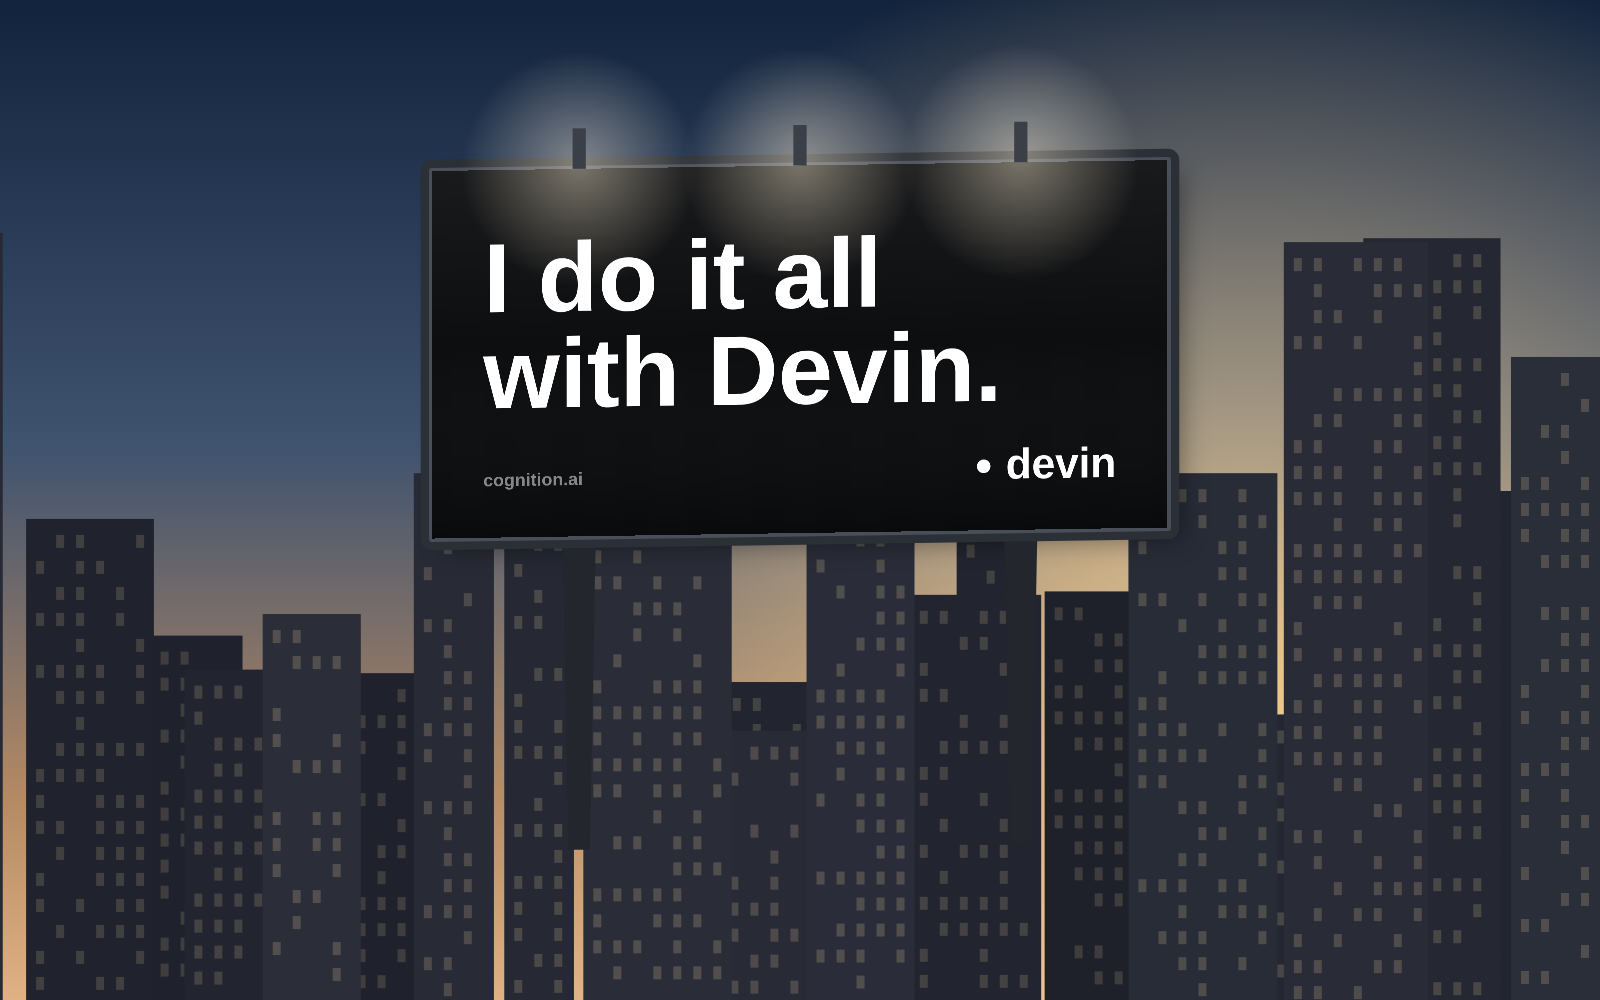
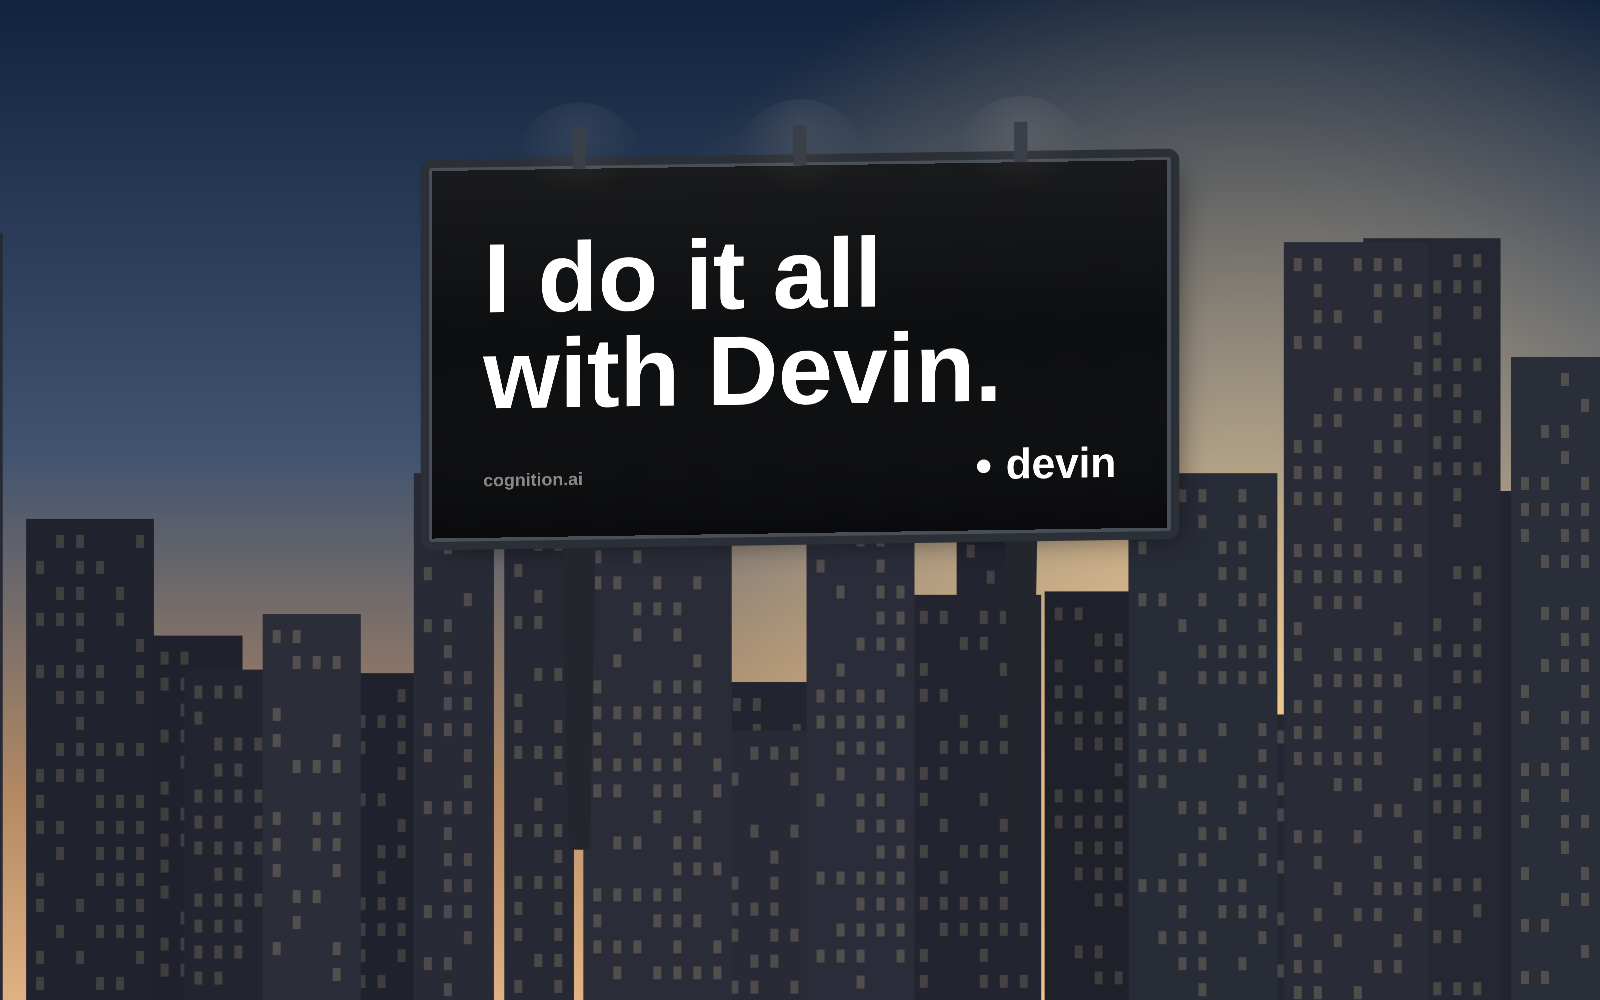
Refine billboard gantry lighting

Changed region(s): [[0.2812, 0.062, 0.7188, 0.279]]

diff --git a/app.js b/app.js
@@ -266,15 +266,15 @@ function drawLights(canvas, quad) {
   const height = Math.hypot(quad[3][0] - quad[0][0], quad[3][1] - quad[0][1]);
   const fixtureWidth = Math.max(8, width * 0.018);
   const fixtureLength = Math.max(22, height * 0.11);
-  const radius = width * 0.16;
+  const radius = width * 0.09;
 
   g.save();
   g.globalCompositeOperation = 'screen';
   for (const t of [0.2, 0.5, 0.8]) {
     const x = quad[0][0] + (quad[1][0] - quad[0][0]) * t;
     const y = quad[0][1] + (quad[1][1] - quad[0][1]) * t;
-    const glow = g.createRadialGradient(x, y - fixtureLength * 0.15, 3, x, y, radius);
-    glow.addColorStop(0, 'rgba(255,240,205,.42)');
+    const glow = g.createRadialGradient(x, y - fixtureLength * 0.95, 3, x, y - fixtureLength * 0.95, radius);
+    glow.addColorStop(0, 'rgba(255,240,205,.08)');
     glow.addColorStop(1, 'rgba(255,240,205,0)');
     g.fillStyle = glow;
     g.beginPath();
@@ -451,9 +451,9 @@ function setChip(i) {
   els.chips.forEach((c, n) => c.classList.toggle('active', n === i));
 }
 
-/* ---------- sample scene ---------- */
+/* ---------- sample city ---------- */
 
-function sampleScene() {
+function sampleCity() {
   const W = 1600, H = 1000;
   const c = document.createElement('canvas');
   c.width = W; c.height = H;
@@ -585,7 +585,7 @@ els.file.addEventListener('change', e => {
 });
 
 els.photo.addEventListener('click', () => {
-  const img = sampleScene();
+  const img = sampleCity();
   img.onload = () => {
     useImage(img);
     els.status.textContent = 'Sample city loaded \u2014 place your board.';
@@ -606,7 +606,7 @@ document.querySelectorAll('[data-placement]').forEach(button => {
   button.addEventListener('click', () => {
     if (!state.img) return;
     const placement = button.dataset.placement;
-    state.quad = placedQuad(state.img.width, state.img.height, placement === 'reset' ? 'center' : placement);
+    state.quad = placedQuad(state.img.width, state.img.height, placement);
     render();
   });
 });

diff --git a/index.html b/index.html
@@ -28,7 +28,7 @@
         <span class="chip" data-corner="2">BR</span>
         <span class="chip" data-corner="3">BL</span>
       </div>
-    <label class="toggle"><input type="checkbox" id="showGuides" checked /> Show handles</label>
+      <label class="toggle"><input type="checkbox" id="showGuides" checked /> Show handles</label>
     </div>
   </section>
 
@@ -58,7 +58,6 @@ with Devin.</textarea>
         <button class="btn ghost" data-placement="left">Left</button>
         <button class="btn ghost" data-placement="center">Center</button>
         <button class="btn ghost" data-placement="right">Right</button>
-        <button class="btn ghost" data-placement="reset">Reset</button>
       </div>
       <p class="note">Drag inside to move, corners to size and tilt.</p>
       <label class="toggle"><input type="checkbox" id="legs" checked /> Legs</label>
